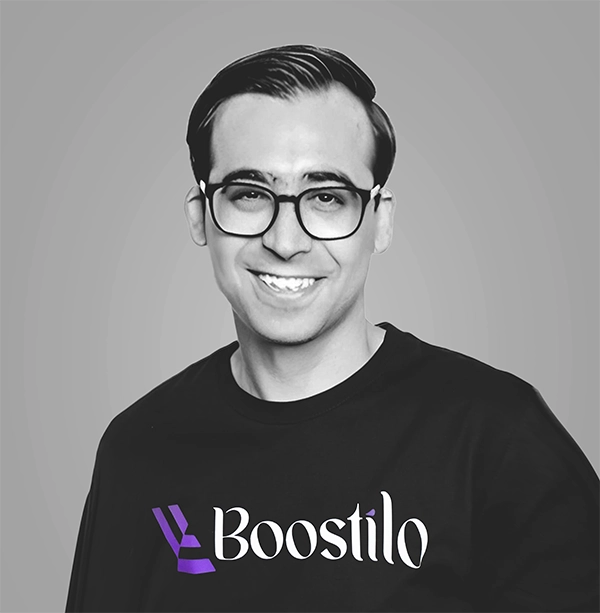
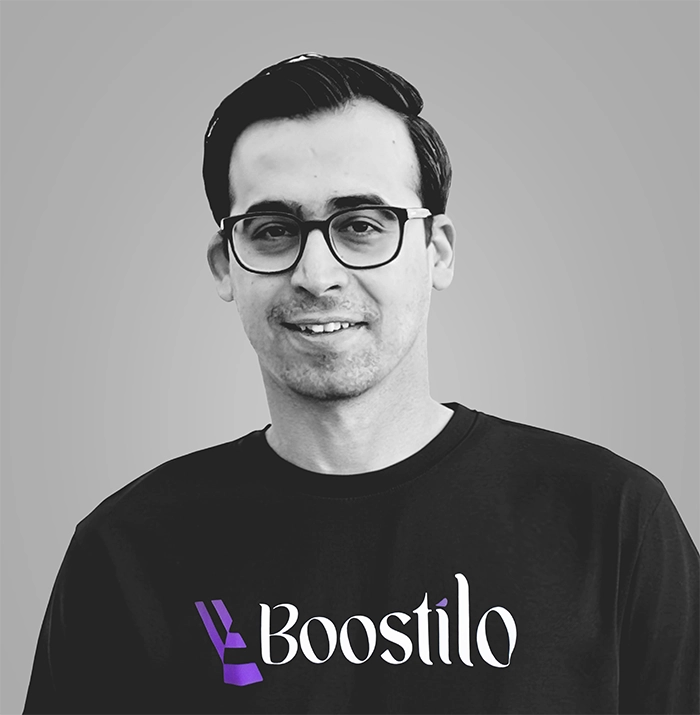
seopage and team in aboutus and change backgroundimageteam in index and commentslider

diff --git a/src/templates/public/aboutus.html b/src/templates/public/aboutus.html
@@ -134,11 +134,74 @@
                           <div class="swiper-wrapper">
                               <div class="swiper-slide">
                                   <div class="box-team ">
-                                    <img src="{% static 'public/images/faezehporhasani.webp' %}" alt="" class="rounded-lg">
+                                    <img src="{% static 'public/images/AmirYousef Hosseini.webp' %}" alt="" class="rounded-lg">
                                     <div class="flex justify-center items-center flex-col mt-2">
-                                        <div class="text-center text-xs md:text-sm font-bold">Faezeh Porhasani</div>
-                                        <div class="text-center text-xs md:text-xs font-bold text-violet-950"> Web Developer </div>
+                                        <div class="text-center text-xs md:text-sm font-bold">Amir Yousefi</div>
+                                        <div class="text-center text-xs md:text-xs font-bold text-violet-950">CEO</div>
                                     </div>
+                                </div>
+                              </div>
+                              <div class="swiper-slide">
+                                <div class="box-team ">
+                                  <img src="{% static 'public/images/mohammadalirohbani.webp' %}" alt="" class="rounded-lg">
+                                  <div class="flex justify-center items-center flex-col mt-2">
+                                      <div class="text-center text-xs md:text-sm font-bold">Mohammad Ali Rohbani</div>
+                                      <div class="text-center text-xs md:text-xs font-bold text-violet-950">CPO</div>
+                                  </div>
+                                </div>
+                              </div>
+                              <div class="swiper-slide">
+                                <div class="box-team ">
+                                  <img src="{% static 'public/images/mehdirohbani.webp' %}" alt="" class="rounded-lg">
+                                  <div class="flex justify-center items-center flex-col mt-2">
+                                      <div class="text-center text-xs md:text-sm font-bold">Mehdi Rohbani</div>
+                                      <div class="text-center text-xs md:text-xs font-bold text-violet-950">VP of Operations</div>
+                                  </div>
+                                </div>
+                              </div>
+                              <div class="swiper-slide">
+                                <div class="box-team ">
+                                  <img src="{% static 'public/images/arezoozarkesh.webp' %}" alt="" class="rounded-lg">
+                                  <div class="flex justify-center items-center flex-col mt-2">
+                                      <div class="text-center text-xs md:text-sm font-bold">Arezoo Zarkesh</div>
+                                      <div class="text-center text-xs md:text-xs font-bold text-violet-950">Graphic Designer</div>
+                                  </div>
+                                </div>
+                              </div>
+                              <div class="swiper-slide">
+                                <div class="box-team ">
+                                  <img src="{% static 'public/images/reyhanghasemi.webp' %}" alt="" class="rounded-lg">
+                                  <div class="flex justify-center items-center flex-col mt-2">
+                                      <div class="text-center text-xs md:text-sm font-bold">Reyhandokht Ghasem Nejad</div>
+                                      <div class="text-center text-xs md:text-xs font-bold text-violet-950">Content Creator</div>
+                                  </div>
+                                </div>
+                              </div>
+                              <div class="swiper-slide">
+                                <div class="box-team ">
+                                  <img src="{% static 'public/images/sina.webp' %}" alt="" class="rounded-lg">
+                                  <div class="flex justify-center items-center flex-col mt-2">
+                                      <div class="text-center text-xs md:text-sm font-bold">Sina Alirezaie</div>
+                                      <div class="text-center text-xs md:text-xs font-bold text-violet-950">Business Development Specialist</div>
+                                  </div>
+                                </div>
+                              </div>
+                              <div class="swiper-slide">
+                                <div class="box-team ">
+                                  <img src="{% static 'public/images/faezehporhasani.webp' %}" alt="" class="rounded-lg">
+                                  <div class="flex justify-center items-center flex-col mt-2">
+                                      <div class="text-center text-xs md:text-sm font-bold">Faezeh Purhasani</div>
+                                      <div class="text-center text-xs md:text-xs font-bold text-violet-950">Web Developer</div>
+                                  </div>
+                                </div>
+                              </div>
+                              <div class="swiper-slide">
+                                <div class="box-team ">
+                                  <img src="{% static 'public/images/ali.webp' %}" alt="" class="rounded-lg">
+                                  <div class="flex justify-center items-center flex-col mt-2">
+                                      <div class="text-center text-xs md:text-sm font-bold">Ali Ostadi</div>
+                                      <div class="text-center text-xs md:text-xs font-bold text-violet-950">Business Development Specialist</div>
+                                  </div>
                                 </div>
                               </div>
                               <div class="swiper-slide">
@@ -150,7 +213,6 @@
                                   </div>
                                 </div>
                               </div>
-
                               <div class="swiper-slide">
                                 <div class="box-team ">
                                   <img src="{% static 'public/images/amirabbasmehdizadeh.webp' %}" alt="" class="rounded-lg">
@@ -160,17 +222,6 @@
                                   </div>
                                 </div>
                               </div>
-                              
-                              <div class="swiper-slide">
-                                <div class="box-team ">
-                                  <img src="{% static 'public/images/mr.webp' %}" alt="" class="rounded-lg">
-                                  <div class="flex justify-center items-center flex-col mt-2">
-                                      <div class="text-center text-xs md:text-sm font-bold">Ali Ostadi</div>
-                                      <div class="text-center text-xs md:text-xs font-bold text-violet-950">Business Development Specialist</div>
-                                  </div>
-                                </div>
-                              </div>
-
                            </div>
                               <!-- If we need pagination -->
                             <div class="swiper-pagination"></div>

diff --git a/src/templates/service/seo.html b/src/templates/service/seo.html
@@ -47,7 +47,7 @@
                     </div>
                     <div class="w-full md:w-3/5 p-4 flex justify-center flex-col">
                         <div class="item-highlight-landing">
-                            <span>SEO:</span><br>
+                            <span>SEO</span><br>
                             <span>The Key to Success in Every Industry</span>
                         </div>
                         <div class="mt-2 text-sm md:text-base ">
@@ -64,7 +64,7 @@
                 <div class="flex flex-col-reverse md:flex-row flex-wrap items-center justify-center">
                     <div class="w-full md:w-3/5 p-4 flex justify-center flex-col">
                         <div class="item-highlight-landing">
-                            <span> Professional SEO Strategies:</span><br>
+                            <span> Professional SEO Strategies</span><br>
                             <span>Boost Your Traffic</span>
                         </div>
                         <div class="mt-2 text-sm md:text-base ">
@@ -220,7 +220,7 @@
                     </div>
                     <div class="w-full md:w-3/5 p-4 flex justify-center flex-col">
                         <div class="item-highlight-landing">
-                            <span>Local SEO Services in Vancouver:</span><br>
+                            <span>Local SEO Services in Vancouver</span><br>
                             <span>Why Local Businesses Should Trust Us?</span>
                         </div>
                         <div class="mt-2 text-sm md:text-base ">
@@ -255,7 +255,7 @@
                 <div class="flex flex-col-reverse md:flex-row flex-wrap items-center justify-center">
                     <div class="w-full md:w-3/5 p-4 flex justify-center flex-col">
                         <div class="item-highlight-landing">
-                            <span>SEO with Boostilo:</span><br>
+                            <span>SEO with Boostilo</span><br>
                             <span> Free SEO Analysis Before You Commit</span>
                         </div>
                         <div class="mt-2 text-sm md:text-base ">
@@ -347,7 +347,7 @@
                     </div>
                     <div class="w-full md:w-3/5 p-4 flex justify-center flex-col">
                         <div class="item-highlight-landing">
-                            <span>Why Google Matters:</span><br>
+                            <span>Why Google Matters</span><br>
                             <span>How much do people use Google?</span>
                         </div>
                         <div class="mt-2 text-sm md:text-base ">
@@ -372,7 +372,7 @@
                 <div class="flex flex-col-reverse md:flex-row flex-wrap items-center justify-center">
                     <div class="w-full md:w-3/5 p-4 flex justify-center flex-col">
                         <div class="item-highlight-landing">
-                            <span>SEO:</span><br>
+                            <span>SEO</span><br>
                             <span> In Simple Terms </span>
                         </div>
                         <div class="mt-2 text-sm md:text-base ">
@@ -409,7 +409,7 @@
                     </div>
                     <div class="w-full md:w-3/5 p-4 flex justify-center flex-col">
                         <div class="item-highlight-landing">
-                            <span> Website Without SEO:</span><br>
+                            <span> Website Without SEO</span><br>
                             <span> Website Without SEO Drive Sales?</span>
                         </div>
                         <div class="mt-2 text-sm md:text-base ">

diff --git a/src/static/assets/public/js/sliders.js b/src/static/assets/public/js/sliders.js
@@ -7,45 +7,64 @@
      });
 
 
-    const swiper2 = new Swiper("#jjj", {
-        direction: 'horizontal',
-        autoplay: {
-          delay:5000,
-          loop:true,
+
+     const swiper2 = new Swiper("#jjj", {
+      direction: 'horizontal',
+      autoplay: {
+        delay: 3000,
+        disableOnInteraction: false, // برای اینکه چرخش بعد از تعامل کاربر همچنان ادامه پیدا کند
+        loop: true,
+      },
+      breakpoints: {
+        340: {
+          slidesPerView: 1,
         },
-        breakpoints: {
-          340: {
-            slidesPerView:1,
-  
-          },
-            600: {
-              slidesPerView:2,
-              spaceBetween: 10, // <- doesn't work
-            },
-            700: {
-              slidesPerView:2,
-              spaceBetween: 10, // <- doesn't work
-            },
-            992: {
-              slidesPerView:2,
-              spaceBetween: 10, // <- doesn't work
-            },
-            1200: {
-                slidesPerView: 2,
-                spaceBetween: 10, // <- doesn't work
-  
-              },
-          },
+        600: {
+          slidesPerView: 2,
+          spaceBetween: 10,
+        },
+        700: {
+          slidesPerView: 2,
+          spaceBetween: 10,
+        },
+        992: {
+          slidesPerView: 2,
+          spaceBetween: 10,
+        },
+        1200: {
+          slidesPerView: 2,
+          spaceBetween: 10,
+        },
+      },
       navigation: {
         nextEl: ".swiper-button-prev-custom",
         prevEl: ".swiper-button-next-custom",
-      }
-    });
+      },
+      on: {
+        init: function () {
+          this.slides.forEach((slide) => {
+            slide.addEventListener('mouseenter', () => {
+              this.autoplay.stop();
+            });
+            slide.addEventListener('mouseleave', () => {
+              this.autoplay.start();
+            });
+            slide.addEventListener('touchstart', () => { // برای توقف چرخش در دستگاه های لمسی
+              this.autoplay.stop();
+            });
+            slide.addEventListener('touchend', () => { // برای ادامه چرخش در دستگاه های لمسی
+              this.autoplay.start();
+            });
+          });
+        },
+      },
+     });
 
+     
     const swiperblog = new Swiper(".blog", {
       direction: 'horizontal',
       autoplay: {
-        delay: 2000,
+        delay: 4000,
         loop:true,
       },
       breakpoints: {

diff --git a/src/templates/public/index.html b/src/templates/public/index.html
@@ -174,7 +174,7 @@
                                 <div
                                  class="information">
                                    <span>Amir Hosseini</span><br />
-                                    <span>Ceo</span>
+                                    <span>CEO</span>
                                 </div>
                             </div>
                             <div class=" rounded-3xl team-image-container">
@@ -201,7 +201,6 @@
                                     <span>Graphic Designer</span>
                                 </div>
                             </div>
-
                             <div class=" rounded-3xl team-image-container">
                                 <img src="{% static 'public/images/reyhanghasemi.webp' %}" alt="عکس1" class="w-full h-auto rounded-3xl ">
                                 <div
@@ -211,7 +210,7 @@
                                 </div>
                             </div>
                             <div class=" rounded-3xl team-image-container">
-                                <img src="{% static 'public/images/mr2.webp' %}" alt="عکس1" class="w-full h-auto rounded-3xl ">
+                                <img src="{% static 'public/images/sina.webp' %}" alt="عکس1" class="w-full h-auto rounded-3xl ">
                                 <div
                                  class="information">
                                    <span>Sina Alirezaie</span><br />
@@ -313,8 +312,9 @@
     <section class="boostilo-blog mt-10">
         <div class="container">
             <div class="flex items-center justify-center space-x-2">
-                <span class="w-2.5 h-2.5 rounded-full bg-purple-500"></span> <!-- نقطه گرد بنفش -->
-                <p class="text-sm md:text-3xl text-black">LASTEST BLOG</p> <!-- توضیح عنوان -->
+                <h1 class="text-xl md:text-2xl	xl:text-4xl font-bold mt-2 ">
+                    Lastest Blog
+                </h1>
              </div>
               <div class="flex flex-wrap gap-3 mt-8 p-3">
                 <div class="swiper blog">
